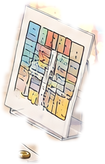
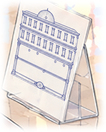
Вкладыш карты под синий фасад принят и перенесён в assets/
st_z04_map, st_w2_map заменены (прежние пёстрые — work/orig_gfx/cutouts/),
cutouts.json — две строки; спека §13 и статус: вопрос закрыт.

Claude-Session: https://claude.ai/code/session_014TPHYj2n3TDUsAHgBL2WW3

diff --git a/PROJECT_STATUS_HYDROUDAR.md b/PROJECT_STATUS_HYDROUDAR.md
@@ -7,7 +7,7 @@
 - ★★★★★★★★★★★ **12.10.2026, поздняя ночь — ПАКЕТ 8 ПРИНЯТ АВТОРОМ («да») И ПЕРЕНЕСЁН В `assets/`. ГРАФИКА ГОТОВА: 264 из 264 (проверка: все 268 имён спеки есть в `assets/gfx/`, из них 4 портрета Предка — из BJ2). ДАЛЬШЕ — с этого пункта: звук (готово 6 из 59) и код титула по новой раскладке.** Ветка `claude/funny-hopper-plele2`, PR #20 (черновой, не слит — ждёт слова автора). Подробно — `work/higgsfield/candidates/pack8_1012/README.md`.
   - **В `assets/`:** `assets/gfx/icons/` — 9 иконок; `assets/gfx/ui/` — `bg_title` («Три плаката»), `logo_title` (840×376: логотип BJ2 + римская «II» из латунных труб + «ГИДРОУДАР»), `icon_512` (вариант В: вантуз с красной чашей на звезде в кольце BJ2). Спека §6, §10, §13 поправлены; `check_asset_spec.py` — размер логотипа 840×376, ошибок нет.
   - **Решения автора 12.10.2026 (действуют дальше):** титул — направление 10 «Три плаката» из мозгового штурма (лист `work/higgsfield/sheet_1012_title_brainstorm.jpg`); логотип с «II» из водопроводных труб справа от названия; **раскладка титула для кода:** логотип в (30, 30), кнопки меню 400×72 столбиком от (250, 450) с шагом 92 — плакаты (x 900–1880) не перекрывать (в BJ2 логотип в (360, 84), кнопки посередине); ключ латунный на красной нитке; наклейка на вантузе — жёлтая полоска без букв; логотип уменьшен (часть BJ2 не байт в байт).
-  - **Открыто:** вкладыш карты в подставке (`st_z04_map`, `st_w2_map`) пёстрый, а принятая плёнка `plan_hotel` и иконка — синий фасад; предложено перерисовать два слоя (ждёт слова автора).
+  - **Вкладыш карты в подставке перерисован под синий фасад** (решение автора «да»): `st_z04_map`, `st_w2_map` в `assets/gfx/cutouts/`, прежние пёстрые — `work/orig_gfx/cutouts/…__пёстрый_до_12.10`; README `work/higgsfield/candidates/map_insert_1012/`, лист `work/higgsfield/sheet_1012_map_insert.jpg`. Открытых вопросов по графике нет.
   - **Новые инструменты:** `tools/assets/icon_fit.py`, `logo_compose.py` (с `--numeral`), `title_compose.py`, `title_preview.py`, `tools/layout/title_iso_mock.py`.
 - ★★★★★★★★★★ **12.10.2026, поздняя ночь — (прежняя точка входа) ПАКЕТ 8 НА ПРИЁМКЕ: 9 иконок предметов (§6) и титул (`bg_title`, `logo_title`, `icon_512`, §10) — последние 12 рисунков. После «да» графика готова полностью (264 из 264). ДАЛЬШЕ — с этого пункта: ответы автора на 6 пунктов README, затем перенос.** Ветка `claude/funny-hopper-plele2`. Сессия стартовала с ветки, совпадающей с `origin/main` (601bbcd, слияние PR #19); открытых PR не было; впереди `main` только старые хвосты (`art-archive`, `gifted-faraday`, `intelligent-hypatia`). Подробно — `work/higgsfield/candidates/pack8_1012/README.md`.
   - **Что сделано:** каждая вещь нарисована с принятой картинки (образцы — `refs/`) + эталон стиля BJ2 + лист иконок BJ2 (`proshot82/bj2` `assets/gfx/icons/`); вписывание в 128×128 — новый `tools/assets/icon_fit.py` (88 % поля). Титул: BJ2 рисует логотип в (360, 84) и кнопки посередине от y = 560 — фон сделан по раскладке `work/higgsfield/layout/title_mock_1012.png` (вантуз слева, середина спокойная, тележка справа в проёме); логотип — BJ2 байт в байт + строка «ГИДРОУДАР» (новый `tools/assets/logo_compose.py`). Листы — `work/higgsfield/sheet_1012_pack8_icons.jpg`, `sheet_1012_pack8_title.jpg`; готовые файлы — `candidates/pack8_1012/final/`.

diff --git a/docs/BJ3_ASSET_SPEC.md b/docs/BJ3_ASSET_SPEC.md
@@ -939,7 +939,7 @@
 
 
 **Решения автора 12.10.2026, пакет 7 (носители документов; README `work/higgsfield/candidates/pack7_1012/`): «1–9 ок».** Где спека и принятые картинки расходились, носитель нарисован по картинке: 1 — бумага Кухтулху кремовая; 2 — регламент — стальная пластина с окном посередине; 3 — табличка стойки воды в латунной рамке, первая строка `DOC.water_stand` — «Наследие», как на зуме (правка `texts/rewrite/ACT3_TEXTS_EDITS.md`); 4 — наклейка кремовая с золотой каймой, буквы красные; 5 — табличка экспоната металлическая на тумбе витрины; 6 — трафарет на зелёной плите над решёткой; 7 — на путёвке и офисном листе без линеек; 8 — планы — разрезы здания; 9 — источник на карте отеля — метка без подписи.
-**Решения автора 12.10.2026, пакет 8 (README `work/higgsfield/candidates/pack8_1012/`): «да».** Иконки — с принятых картинок: ключ латунный на красной нитке, наклейка на вантузе — жёлтая полоска без букв, карта — по плёнке `plan_hotel`, счёт — с красным лучистым оттиском; `icon_512` — вариант В; титул — «Три плаката» с логотипом с «II» из труб, логотип и кнопки слева (§10). Открыто: вкладыш карты в подставке (`st_z04_map`, `st_w2_map`) пёстрый, а `plan_hotel` — синий фасад; предложено перерисовать два слоя.
+**Решения автора 12.10.2026, пакет 8 (README `work/higgsfield/candidates/pack8_1012/`): «да».** Иконки — с принятых картинок: ключ латунный на красной нитке, наклейка на вантузе — жёлтая полоска без букв, карта — по плёнке `plan_hotel`, счёт — с красным лучистым оттиском; `icon_512` — вариант В; титул — «Три плаката» с логотипом с «II» из труб, логотип и кнопки слева (§10). Вкладыш карты в подставке (`st_z04_map`, `st_w2_map`) перерисован под синий фасад `plan_hotel` — та же вещь на стойке, в руках и на стекле (решение автора «да», 12.10.2026; README `work/higgsfield/candidates/map_insert_1012/`).
 
 ## 14. Конвейер Higgsfield (решение автора 06.10.2026)
 

diff --git a/work/higgsfield/candidates/map_insert_1012/README.md b/work/higgsfield/candidates/map_insert_1012/README.md
@@ -1,6 +1,6 @@
 # Вкладыш карты в подставке под синий фасад (12.10.2026)
 
-**Состояние: на приёмке у автора.** В `assets/` не перенесено. Лист — `work/higgsfield/sheet_1012_map_insert.jpg` (было / стало, крупно, и весь кадр).
+**Состояние: принят автором («да», 12.10.2026) и перенесён в `assets/gfx/cutouts/`; прежние слои — `work/orig_gfx/cutouts/…__пёстрый_до_12.10.png`.** Лист — `work/higgsfield/sheet_1012_map_insert.jpg` (было / стало, крупно, и весь кадр).
 
 **Зачем.** На стойке администратора (зум Z04 и вестибюль W2) стоит акриловая подставка с картой отеля для гостей. Эту карту Лапидус берёт в начале второго акта и кладёт на стекло над люком (загадка с тремя планами). В подставке карта была нарисована пёстрой, цветными клетками. А плёнка `plan_hotel`, которую игрок читает и кладёт на стекло (пакет 7), и иконка `ic_map` (пакет 8) — синий тушевой фасад с куполом на прозрачном пластике. Выходило, что игрок берёт одну вещь, а в руках у него другая. Решение автора 12.10.2026 («да»): перерисовать вкладыш в двух слоях.
 
